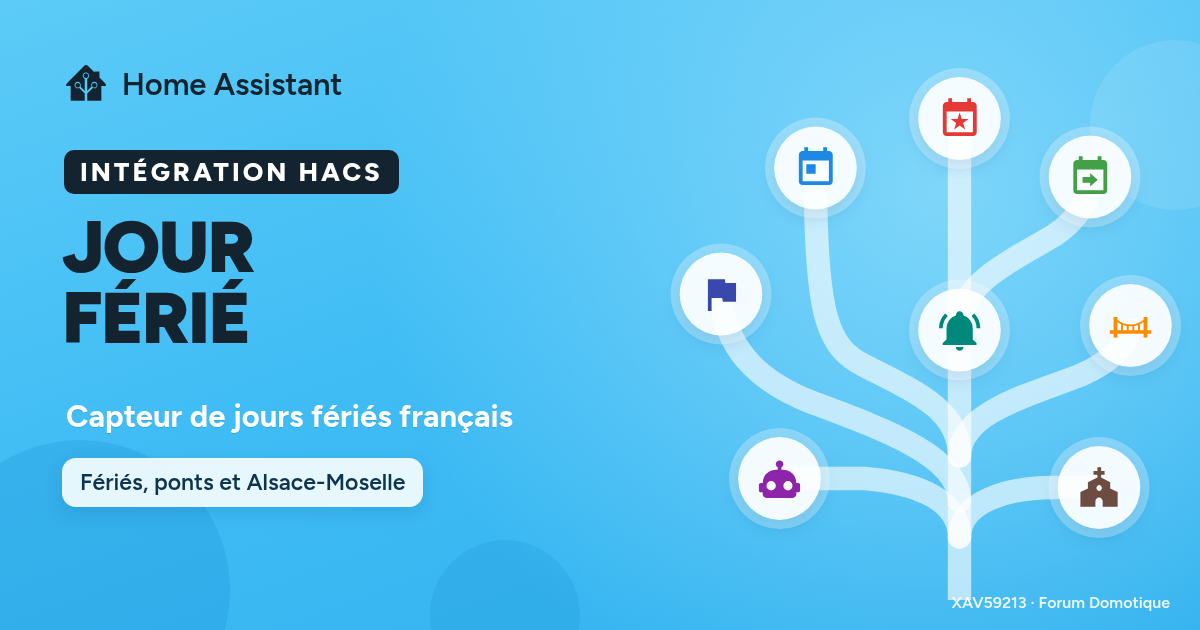
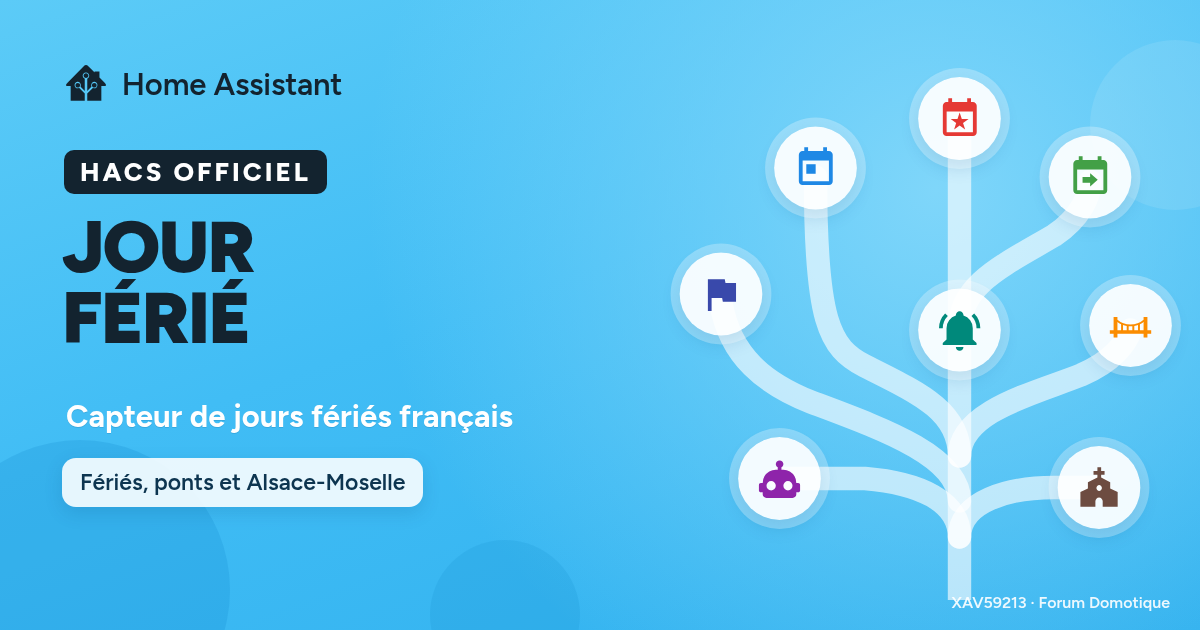
Couvertures pour les cartes sans image lisible (Jour Férié, Free Mobile SMS XA, Saints du Jour, Souvenirs, Piscinexa, SpaceX, actualités 2025.12/2026.2/2026.3)

Changed region(s): [[0.2158, 0.2111, 0.3392, 0.3317], [0.0617, 0.2413, 0.185, 0.3016]]

diff --git a/sujets/194-integration-ha-jour-ferie-capteur-de-jours-feries/messages.md b/sujets/194-integration-ha-jour-ferie-capteur-de-jours-feries/messages.md
@@ -8,8 +8,13 @@ date: 2025-06-07
 <p class="forum-cta"><a href="https://forumdomotique.com/forums/topic/194-%F0%9F%87%AB%F0%9F%87%B7-int%C3%A9gration-ha-jour-f%C3%A9ri%C3%A9-capteur-de-jours-f%C3%A9ri%C3%A9s/">Lire et commenter sur Forum Domotique</a> · <a href="https://github.com/XAV59213/jourferier">Dépôt HACS : Jour Férié</a></p>
 
 
-<section class="carousel photo-carousel" data-carousel data-lightbox aria-roledescription="carrousel" aria-label="Photos de l’article (8)" tabindex="0">
+<section class="carousel photo-carousel" data-carousel data-lightbox aria-roledescription="carrousel" aria-label="Photos de l’article (9)" tabindex="0">
 <div class="carousel-track" data-track>
+<figure class="photo-slide" data-slide>
+  <a href="images/cover-jour-ferie.png" data-full="images/cover-jour-ferie.png" data-alt="Couverture — Jour Férié, intégration HACS officielle pour Home Assistant" aria-label="Agrandir la couverture">
+    <img src="images/cover-jour-ferie.png" alt="Couverture — Jour Férié, intégration HACS officielle pour Home Assistant" loading="eager" width="1200" height="630">
+  </a>
+</figure>
 <figure class="photo-slide" data-slide>
   <a href="images/Capturedcrandu2025-06-0809-22-23.png" data-full="images/Capturedcrandu2025-06-0809-22-23.png" data-alt="Photo 1 — ## 🇫🇷 [Intégration HA] Jour Férié – Capteur de jours fériés" aria-label="Agrandir la photo 1 : Photo 1 — ## 🇫🇷 [Intégration HA] Jour Férié – Capteur de jours fériés">
     <img src="images/Capturedcrandu2025-06-0809-22-23.png" alt="Photo 1 — ## 🇫🇷 [Intégration HA] Jour Férié – Capteur de jours fériés" loading="eager">

diff --git a/sujets/4093-integration-home-assistant-souvenirs-et-celebrations/messages.md b/sujets/4093-integration-home-assistant-souvenirs-et-celebrations/messages.md
@@ -1,7 +1,7 @@
 ---
 title: "🎂 Intégration Home Assistant – Souvenirs et Célébrations"
 description: "Je vous présente une intégration personnalisée que j’ai développée pour Home Assistant : Souvenirs et Célébrations . Elle permet de suivre, au fil de…"
-image: /sujets/4093-integration-home-assistant-souvenirs-et-celebrations/images/apercu-global.png
+image: /sujets/4093-integration-home-assistant-souvenirs-et-celebrations/images/cover-souvenirs.png
 date: 2026-11-20
 ---
 <p class="forum-cta"><a href="https://forumdomotique.com/forums/topic/4093-%F0%9F%8E%82-int%C3%A9gration-home-assistant-souvenirs-et-c%C3%A9l%C3%A9brations/">Lire et commenter sur Forum Domotique</a> · <a href="https://github.com/XAV59213/date_countdown">Dépôt HACS : Souvenirs et Célébrations</a></p>

diff --git a/index.md b/index.md
@@ -80,7 +80,7 @@ Cette vitrine rassemble ses publications pour les lire confortablement, et renvo
   </div>
 </article>
 <article class="hero-slide" data-slide>
-  <img src="{{ '/sujets/133-projet-piscine-besoin-de-testeur/images/piscinexa.png' | relative_url }}" alt="Tableau de bord de l’intégration Piscinexa pour Home Assistant" width="1200" height="675" loading="eager">
+  <img src="{{ '/sujets/133-projet-piscine-besoin-de-testeur/images/cover-piscinexa.png' | relative_url }}" alt="Couverture de Piscinexa, gestion de piscine pour Home Assistant" width="1200" height="630" loading="eager">
   <div class="hero-caption">
     <div class="tag">Intégration</div>
     <h2><a href="sujets/133-projet-piscine-besoin-de-testeur/messages.html">Piscinexa</a></h2>

diff --git a/sujets/110-free-mobile-sms-xa-integration-home-assistant/messages.md b/sujets/110-free-mobile-sms-xa-integration-home-assistant/messages.md
@@ -1,7 +1,7 @@
 ---
 title: "📨 Free Mobile SMS XA – Intégration Home Assistant"
 description: "Free Mobile SMS XA simplifie l'envoi de notifications SMS via l'API Free Mobile dans Home Assistant Objectif : Rendre l'intégration facile , intuitive…"
-image: /sujets/110-free-mobile-sms-xa-integration-home-assistant/images/icon.png
+image: /sujets/110-free-mobile-sms-xa-integration-home-assistant/images/cover-free-sms-xa.png
 date: 2025-05-03
 ---
 <p class="forum-cta"><a href="https://forumdomotique.com/forums/topic/110-%F0%9F%93%A8-free-mobile-sms-xa-int%C3%A9gration-home-assistant/">Lire et commenter sur Forum Domotique</a> · <a href="https://github.com/XAV59213/freesmsxa">Dépôt HACS : Free Mobile SMS XA</a></p>

diff --git a/contenus/actualites/home-assistant-20262-la-mise-a-jour-de-fevrier-2026-rend-le-dashboard-home-par-defaut-et-l/article.md b/contenus/actualites/home-assistant-20262-la-mise-a-jour-de-fevrier-2026-rend-le-dashboard-home-par-defaut-et-l/article.md
@@ -1,7 +1,7 @@
 ---
 title: "Home Assistant 2026.2 : la mise à jour de février 2026 rend le dashboard Home par défaut et lance la Device Database"
 description: "Après une 2026.1 un peu plus calme post-fêtes, l'équipe frappe fort avec la 2026.2 ! Sortie officielle le 4 février 2026, cette version transforme le…"
-image: /contenus/actualites/home-assistant-20262-la-mise-a-jour-de-fevrier-2026-rend-le-dashboard-home-par-defaut-et-l/images/Capturedcrandu2026-01-3111-53-41.png
+image: /contenus/actualites/home-assistant-20262-la-mise-a-jour-de-fevrier-2026-rend-le-dashboard-home-par-defaut-et-l/images/cover-2026-2.jpg
 date: 2026-01-31
 section: actualites
 tags:

diff --git a/sujets/133-projet-piscine-besoin-de-testeur/messages.md b/sujets/133-projet-piscine-besoin-de-testeur/messages.md
@@ -1,7 +1,7 @@
 ---
 title: "Projet Piscine BESOIN DE TESTEUR"
 description: "Objectif : L'intégration Piscinexa est une solution personnalisée pour la gestion et la surveillance des piscines via Home Assistant. Elle permet de…"
-image: /sujets/133-projet-piscine-besoin-de-testeur/images/piscinexa.png
+image: /sujets/133-projet-piscine-besoin-de-testeur/images/cover-piscinexa.png
 date: 2025-05-08
 ---
 <p class="forum-cta"><a href="https://forumdomotique.com/forums/topic/133-projet-piscine-besoin-de-testeur/">Lire et commenter sur Forum Domotique</a> · <a href="https://github.com/XAV59213/piscinexa">Dépôt HACS : Piscinexa</a></p>

diff --git a/contenus/actualites/home-assistant-2025-12-labs-tableau-de-bord-energie/article.md b/contenus/actualites/home-assistant-2025-12-labs-tableau-de-bord-energie/article.md
@@ -1,7 +1,7 @@
 ---
 title: "Modification de Home Assistant 2025.12 : la mise à jour de décembre 2025 repousse les limites avec les Labs et un tableau de bord énergie boosté"
 description: "On l'attendait avec impatience, elle arrive pile pour les fêtes ! La mise à jour Home Assistant de décembre 2025 (2025.12), sortie comme prévu le premier…"
-image: /contenus/actualites/home-assistant-2025-12-labs-tableau-de-bord-energie/images/Capturedcrandu2025-11-3016-55-00.png
+image: /contenus/actualites/home-assistant-2025-12-labs-tableau-de-bord-energie/images/cover-2025-12.png
 date: 2025-11-30
 section: actualites
 tags:

diff --git a/contenus/actualites/home-assistant-20263-un-grand-nettoyage-bienvenu-et-plein-de-pepites-communautaires/article.md b/contenus/actualites/home-assistant-20263-un-grand-nettoyage-bienvenu-et-plein-de-pepites-communautaires/article.md
@@ -1,7 +1,7 @@
 ---
 title: "Home Assistant 2026.3 : Un « grand nettoyage » bienvenu et plein de pépites communautaires"
 description: "Franck Nijhof (Frenck) l'annonce clairement dans le billet officiel : « On a pris le temps de reviewer, polir et merger un nombre impressionnant de PRs…"
-image: /assets/images/og-default.png
+image: /contenus/actualites/home-assistant-20263-un-grand-nettoyage-bienvenu-et-plein-de-pepites-communautaires/images/cover-2026-3.jpg
 date: 2026-03-21
 section: actualites
 tags:

diff --git a/sujets/193-integration-home-assistant-saints-du-jour/messages.md b/sujets/193-integration-home-assistant-saints-du-jour/messages.md
@@ -1,7 +1,7 @@
 ---
 title: "🕊 Intégration Home Assistant – Saints du Jour 🇫🇷"
 description: "Je vous présente une petite intégration personnalisée que j’ai développée pour Home Assistant : Saints du Jour Ce composant affiche automatiquement le…"
-image: /sujets/193-integration-home-assistant-saints-du-jour/images/Capturedcrandu2025-06-0714-58-19.png
+image: /sujets/193-integration-home-assistant-saints-du-jour/images/cover-saints-du-jour.png
 date: 2025-06-07
 ---
 {% raw %}
